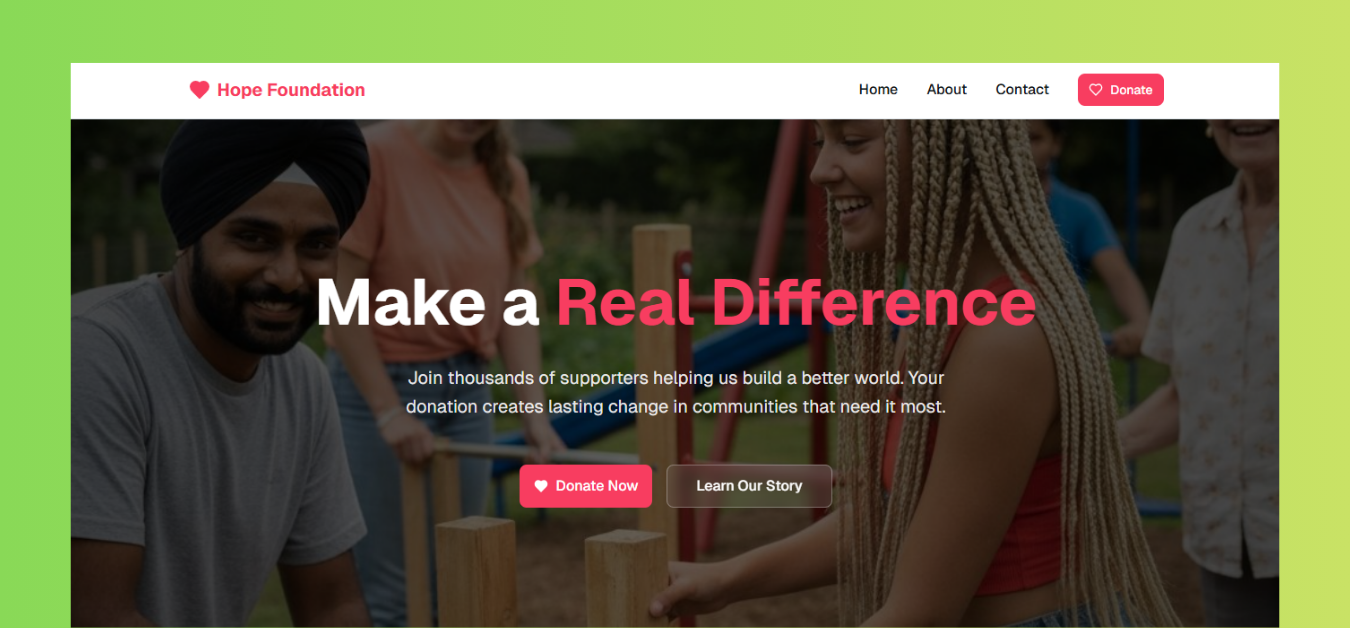
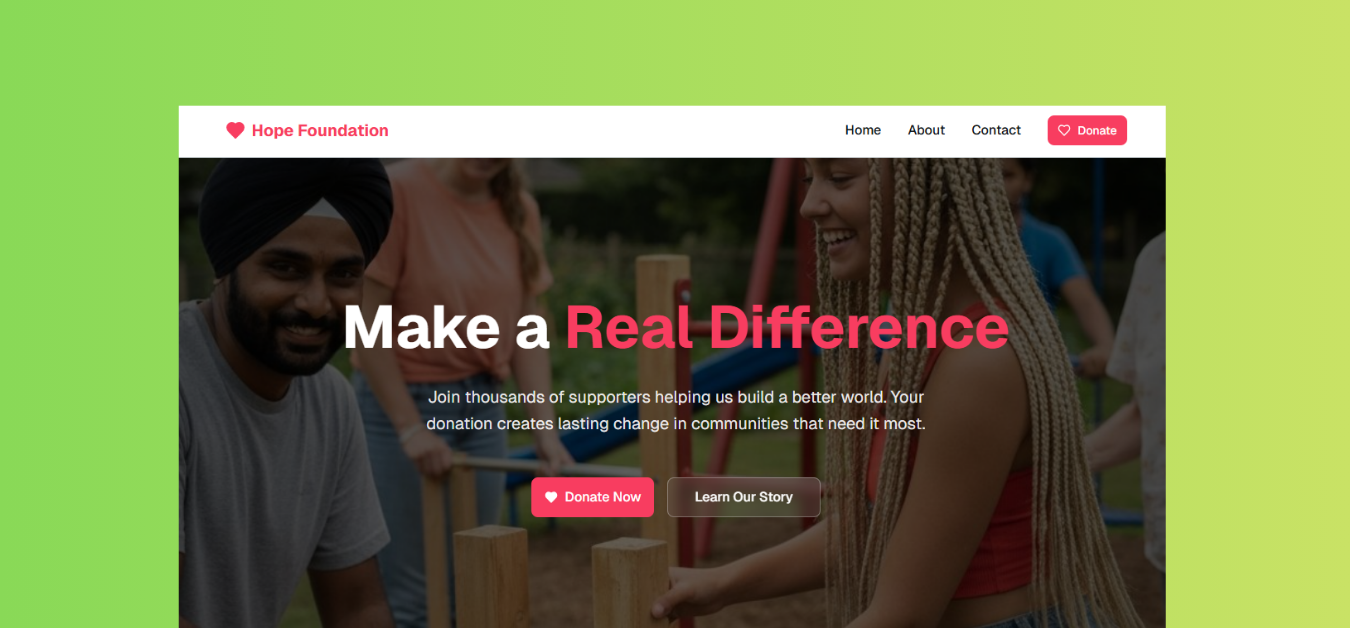
the

diff --git a/app/(front)/projects/components/project-card.tsx b/app/(front)/projects/components/project-card.tsx
@@ -1,6 +1,6 @@
 'use client';
 
-import { useState } from 'react';
+import { useState, useRef, useEffect } from 'react';
 import Link from 'next/link';
 import { ExternalLink, ChevronDown } from 'lucide-react';
 import { Button } from '@/components/ui/button';
@@ -12,31 +12,54 @@ interface ProjectCardProps {
   currency: 'UGX' | 'USD';
 }
 
-export function ProjectCard({
-  project,
-  currency,
-}: ProjectCardProps) {
+export function ProjectCard({ project, currency }: ProjectCardProps) {
   const [showFullFeatures, setShowFullFeatures] = useState(false);
   const [showFullProblems, setShowFullProblems] = useState(false);
+
+  const featuresRef = useRef<HTMLDivElement>(null);
+  const problemsRef = useRef<HTMLDivElement>(null);
 
   const price =
     currency === 'UGX'
       ? `UGX ${project.priceUGX.toLocaleString()}`
       : `USD $${project.priceUSD.toLocaleString()}`;
 
-  const featuresToShow = showFullFeatures ? project.features : project.features.slice(0, 3);
-  const problemsToShow = showFullProblems ? project.problems : project.problems.slice(0, 2);
+  const featuresToShow = showFullFeatures
+    ? project.features
+    : project.features.slice(0, 3);
+  const problemsToShow = showFullProblems
+    ? project.problems
+    : project.problems.slice(0, 2);
 
   const hasMoreFeatures = project.features.length > 3;
   const hasMoreProblems = project.problems.length > 2;
 
-  const onViewDetails = () => {
-    // Implement view details logic here
-  };
+  const [featuresHeight, setFeaturesHeight] = useState('120px');
+  const [problemsHeight, setProblemsHeight] = useState('80px');
+
+  useEffect(() => {
+    if (featuresRef.current) {
+      setFeaturesHeight(
+        showFullFeatures
+          ? `${featuresRef.current.scrollHeight}px`
+          : '120px'
+      );
+    }
+  }, [showFullFeatures, project.features]);
+
+  useEffect(() => {
+    if (problemsRef.current) {
+      setProblemsHeight(
+        showFullProblems
+          ? `${problemsRef.current.scrollHeight}px`
+          : '80px'
+      );
+    }
+  }, [showFullProblems, project.problems]);
 
   return (
     <div className="group h-full flex flex-col gap-4 rounded-xl border border-border bg-card p-6 transition-all hover:shadow-lg hover:border-primary/30">
-      {/* Header with Tier Badge and Price */}
+      {/* Header */}
       <div className="flex items-start justify-between gap-2">
         <div className="flex-1">
           <div className="flex flex-wrap gap-2 mb-2">
@@ -47,7 +70,9 @@ export function ProjectCard({
               {project.categories[0]}
             </Badge>
           </div>
-          <h3 className="text-xl font-semibold text-foreground">{project.title}</h3>
+          <h3 className="text-xl font-semibold text-foreground">
+            {project.title}
+          </h3>
         </div>
       </div>
 
@@ -58,7 +83,7 @@ export function ProjectCard({
       {project.image && (
         <div className="relative aspect-video overflow-hidden rounded-lg bg-muted">
           <img
-            src={project.image || "/placeholder.svg"}
+            src={project.image || '/placeholder.svg'}
             alt={project.title}
             className="h-full w-full object-cover"
           />
@@ -66,7 +91,9 @@ export function ProjectCard({
       )}
 
       {/* Company Name */}
-      <p className="text-sm font-semibold text-foreground">{project.companyName}</p>
+      <p className="text-sm font-semibold text-foreground">
+        {project.companyName}
+      </p>
 
       {/* Description */}
       <p className="line-clamp-3 text-muted-foreground">{project.description}</p>
@@ -95,59 +122,75 @@ export function ProjectCard({
         ))}
       </div>
 
-      {/* Features Section with Read More - Fixed Height */}
-      <div className="space-y-2">
-        <h4 className="text-sm font-semibold text-foreground">Features</h4>
-        <div className="overflow-hidden transition-all duration-300" style={{ maxHeight: showFullFeatures ? '500px' : '120px' }}>
-          <ul className="space-y-1">
-            {featuresToShow.map((feature, i) => (
-              <li key={i} className="text-sm text-muted-foreground flex gap-2">
-                <span className="text-primary">•</span>
-                <span>{feature}</span>
-              </li>
-            ))}
-          </ul>
-          {hasMoreFeatures && (
-            <button
-              onClick={() => setShowFullFeatures(!showFullFeatures)}
-              className="inline-flex items-center gap-1 text-sm text-primary hover:underline mt-2"
-            >
-              {showFullFeatures ? 'Read Less' : 'Read More'}
-              <ChevronDown className={`h-4 w-4 transition-transform ${showFullFeatures ? 'rotate-180' : ''}`} />
-            </button>
-          )}
-        </div>
-      </div>
+      {/* Features Section */}
+     <div className="space-y-2">
+     <h4 className="text-sm font-semibold text-foreground">Features</h4>
+     <div
+      ref={featuresRef}
+      className="overflow-hidden transition-all duration-300"
+      style={{ maxHeight: featuresHeight }}
+     >
+    <ul className="space-y-1">
+      {featuresToShow.map((feature: string, i: number) => (
+        <li key={i} className="text-sm text-muted-foreground flex gap-2">
+          <span className="text-primary">•</span>
+          <span>{feature}</span>
+        </li>
+      ))}
+    </ul>
+  </div>
+  {/* Move button OUTSIDE overflow-hidden container */}
+  {hasMoreFeatures && (
+    <button
+      onClick={() => setShowFullFeatures(!showFullFeatures)}
+      className="inline-flex items-center gap-1 text-sm text-primary hover:underline mt-1"
+    >
+      {showFullFeatures ? 'Read Less' : 'Read More'}
+      <ChevronDown
+        className={`h-4 w-4 transition-transform ${
+          showFullFeatures ? 'rotate-180' : ''
+        }`}
+      />
+    </button>
+  )}
+</div>
 
-      {/* Problems Section with Read More - Fixed Height */}
-      <div className="space-y-2">
-        <h4 className="text-sm font-semibold text-foreground">Problems Solved</h4>
-        <div className="overflow-hidden transition-all duration-300" style={{ maxHeight: showFullProblems ? '500px' : '80px' }}>
-          <ul className="space-y-1">
-            {problemsToShow.map((problem, i) => (
-              <li key={i} className="text-sm text-muted-foreground flex gap-2">
-                <span className="text-primary">•</span>
-                <span>{problem}</span>
-              </li>
-            ))}
-          </ul>
-          {hasMoreProblems && (
-            <button
-              onClick={() => setShowFullProblems(!showFullProblems)}
-              className="inline-flex items-center gap-1 text-sm text-primary hover:underline mt-2"
-            >
-              {showFullProblems ? 'Read Less' : 'Read More'}
-              <ChevronDown className={`h-4 w-4 transition-transform ${showFullProblems ? 'rotate-180' : ''}`} />
-            </button>
-          )}
-        </div>
-      </div>
+      {/* Problems Solved Section */}
+     <div className="space-y-2">
+  <h4 className="text-sm font-semibold text-foreground">Problems Solved</h4>
+  <div
+    ref={problemsRef}
+    className="overflow-hidden transition-all duration-300"
+    style={{ maxHeight: problemsHeight }}
+  >
+    <ul className="space-y-1">
+      {problemsToShow.map((problem, i) => (
+        <li key={i} className="text-sm text-muted-foreground flex gap-2">
+          <span className="text-primary">•</span>
+          <span>{problem}</span>
+        </li>
+      ))}
+    </ul>
+  </div>
+  {hasMoreProblems && (
+    <button
+      onClick={() => setShowFullProblems(!showFullProblems)}
+      className="inline-flex items-center gap-1 text-sm text-primary hover:underline mt-1"
+    >
+      {showFullProblems ? 'Read Less' : 'Read More'}
+      <ChevronDown
+        className={`h-4 w-4 transition-transform ${
+          showFullProblems ? 'rotate-180' : ''
+        }`}
+      />
+    </button>
+  )}
+</div>
+
 
       {/* View Details Button */}
       <Link href={`/projects/${project.id}`} className="w-full">
-        <Button className="w-full mt-auto">
-          View Details
-        </Button>
+        <Button className="w-full mt-auto">View Details</Button>
       </Link>
     </div>
   );

diff --git a/app/(front)/projects/data/projects.ts b/app/(front)/projects/data/projects.ts
@@ -111,27 +111,30 @@ export const projectsData: Project[] = [
     title: 'Basic Charity Website',
     companyName: 'Hope Foundation',
     description:
-      'A professional charity website with donation system, impact stories, and volunteer management.',
+      'A basic charity website built to establish credibility and create a strong online presence. It gives donors and partners a trusted place to verify legitimacy, understand the mission, and connect with the organization.',
     image: '/basic-charity-website-image.png',
     tier: 'basic',
     categories: ['charity-websites'],
     priceUGX: 1500000,
     priceUSD: 422,
     liveLink: 'https://basic-charity-website.vercel.app/',
-    techStack: ['React', 'Tailwind CSS', 'Firebase'],
+    techStack: ['Next.js', 'Tailwind CSS', 'Typescript'],
     features: [
-      'Mission statement and vision pages',
-      'Donation system integration',
-      'Impact stories section',
-      'Volunteer registration',
-      'Newsletter signup',
+      'Clear presentation of the charity’s mission, vision, and values',
+      'Showcase the Core Values',
+      'Eye-catching hero section with key message or image',
+      'Showcase the leadership of the organsation',
+      'Contact information',
+      'How to Donate instructions',
       'Mobile responsive design',
     ],
     problems: [
-      'Limited reach to donors',
-      'Difficulty accepting online donations',
-      'No volunteer management system',
-      'Poor search engine visibility',
+      'The Trust Problem - Donors don’t give to organizations they can’t verify. Without an official website, trust drops immediately. (Solution - This website builds confidence by showing Mission, Vision, Core Values, Photos and more)',
+      'The Legitimacy Problem - When people hear about a charity, the first thing they do is search online. If nothing appears, they question whether it’s real. (Solution - This website proves the organization exists and is structured.',
+      'The Visibility Problem - Without a website, the charity is invisible on Google. They only depend on social media or word of mouth. (Solution - This website makes them searchable and discoverable.',
+      'No Professionalism - Serious partners and companies expect an official website. Without one, the charity looks informal or temporary. (Solution - This website positions them as serious.',
+      'Information Scattering - Information spread across WhatsApp, Facebook, and conversations creates confusion. (Solution - This website centralizes all official information in one trusted place.)',
+      'The Partnership Barrier - Many NGOs and corporates research before partnering. No website = automatic red flag. (Solution - This website removes that barrier.'
     ],
     isMainProject: true,
   },